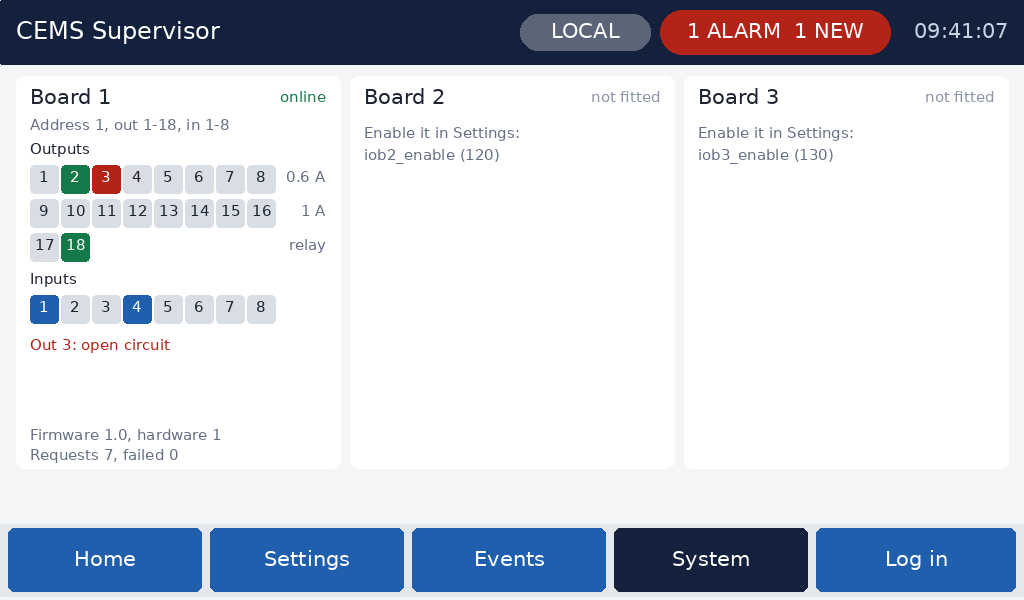
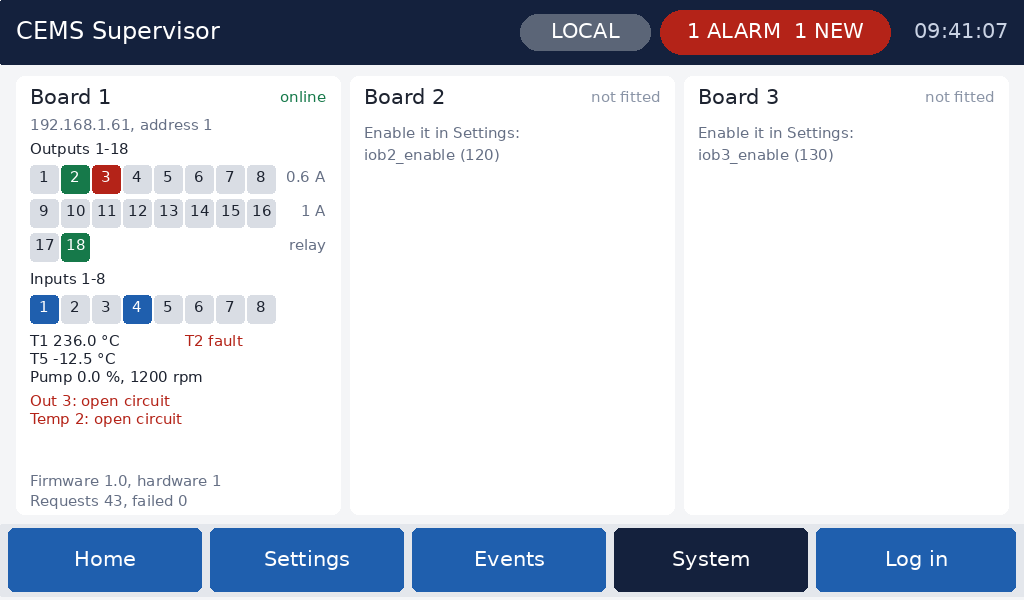
Touchscreen I/O boards screen: board IP on Ethernet, temperatures and pump
Since D27 the boards are reached by IP; the screen showed only the Modbus
address. Each board card now shows its IP and address on Ethernet (or
"RS-485, address N"), the channel ranges on the Outputs/Inputs headings,
the configured temperature channels (calibrated, as on the web page; a
faulty channel says "fault" with the reason in the fault lines) and the
pump duty and speed (register map 2). Integer formatting, no float printf.

Docs: H4 records the display plugged straight onto the core PCB (Gary,
25 Oct), the RiBUS pinout with the 5 V backlight supply, and the ILI2132A
touch controller; screenshots regenerated.

Claude-Session: https://claude.ai/code/session_01AbDXgecyAmn6R8hhL7qjD2

diff --git a/platform/ui/ui.c b/platform/ui/ui.c
@@ -937,12 +937,12 @@ static void draw_system(uint32_t now) {
 
 /* I/O boards (iobus.h): one card per board, outputs and inputs as lit squares, faults in words */
 static void draw_iob(void) {
-    char b[64];
+    char b[64], c[20];
     for (unsigned k = 0; k < IOB_BOARDS; ++k) {
         int16_t x = (int16_t)(16 + k * 334), y = BODY_Y;
         const iob_board_tags_t *t = &iob_tags[k];
         iob_view_t v; memset(&v, 0, sizeof v); (void)iob_board_view(k, &v);
-        box(x, y, 324, 392, C_CARD, 8);
+        box(x, y, 324, 438, C_CARD, 8);
         snprintf(b, sizeof b, "Board %u", k + 1u);
         color(C_INK); text((int16_t)(x + 14), (int16_t)(y + 10), F_TEXT, 0, b);
         uint32_t sc = !t->enable ? C_GREY : v.state == IOB_S_RUN ? C_OK : v.state == IOB_S_CONNECTING ? C_WARN : C_BAD;
@@ -954,11 +954,15 @@ static void draw_iob(void) {
             text((int16_t)(x + 14), (int16_t)(y + 72), F_SMALL, 0, b);
             continue;
         }
-        snprintf(b, sizeof b, "Address %u, out %u-%u, in %u-%u", t->address, t->first_do, t->first_do + IOB_OUTS - 1u,
-                 t->first_di, t->first_di + IOB_INS - 1u);
-        color(C_MUTE); text((int16_t)(x + 14), (int16_t)(y + 42), F_SMALL, 0, b);
+        /* how the board is reached: its IP and Modbus address on Ethernet (D27), the address on RS-485 */
+        if (iob_link == IOB_LINK_ETH) {
+            if (t->ip) { fmt_ip(c, sizeof c, t->ip); snprintf(b, sizeof b, "%s, address %u", c, t->address); }
+            else snprintf(b, sizeof b, "No IP set (iob%u_ip)", k + 1u);
+        } else snprintf(b, sizeof b, "RS-485, address %u", t->address);
+        color(t->ip || iob_link != IOB_LINK_ETH ? C_MUTE : C_BAD); text((int16_t)(x + 14), (int16_t)(y + 42), F_SMALL, 0, b);
         /* outputs: bank A, bank B and the relays, one row each */
-        color(C_INK); text((int16_t)(x + 14), (int16_t)(y + 66), F_SMALL, 0, "Outputs");
+        snprintf(b, sizeof b, "Outputs %u-%u", t->first_do, t->first_do + IOB_OUTS - 1u);
+        color(C_INK); text((int16_t)(x + 14), (int16_t)(y + 66), F_SMALL, 0, b);
         static const char *const bank[] = { "0.6 A", "1 A", "relay" };
         color(C_MUTE);
         for (unsigned r = 0; r < 3; ++r) text((int16_t)(x + 310), (int16_t)(y + 103 + r * 34), F_SMALL, OPT_CENTERY | OPT_RIGHTX, bank[r]);
@@ -969,7 +973,8 @@ static void draw_iob(void) {
             snprintf(b, sizeof b, "%u", i + 1u);
             color(f || on ? 0xFFFFFFu : C_INK); text((int16_t)(bx + 14), (int16_t)(by + 14), F_SMALL, OPT_CENTER, b);
         }
-        color(C_INK); text((int16_t)(x + 14), (int16_t)(y + 196), F_SMALL, 0, "Inputs");
+        snprintf(b, sizeof b, "Inputs %u-%u", t->first_di, t->first_di + IOB_INS - 1u);
+        color(C_INK); text((int16_t)(x + 14), (int16_t)(y + 196), F_SMALL, 0, b);
         for (unsigned i = 0; i < IOB_INS; ++i) {
             int16_t bx = (int16_t)(x + 14 + i * 31), by = (int16_t)(y + 219);
             bool on = (v.inputs >> i) & 1u, f = (v.in_faults >> i) & 1u;
@@ -977,16 +982,39 @@ static void draw_iob(void) {
             snprintf(b, sizeof b, "%u", i + 1u);
             color(f || on ? 0xFFFFFFu : C_INK); text((int16_t)(bx + 14), (int16_t)(by + 14), F_SMALL, OPT_CENTER, b);
         }
+        /* map 2: the configured temperature channels (calibrated, as the web page shows them), two
+         * columns, and the pump */
+        int16_t ly = (int16_t)(y + 258);
+        unsigned nt = 0;
+        for (unsigned i = 0; i < IOB_TEMPS; ++i) {
+            if (t->temp_state[i] == IOB_TS_OFF) continue;
+            bool ok = t->temp_state[i] == IOB_TS_OK && t->temps[i] != IOB_TEMP_INVALID;
+            bool wait = t->temp_state[i] == IOB_TS_WAIT;
+            int32_t d = t->temps[i];                         /* 0.1 degC, without float printf */
+            if (ok) snprintf(b, sizeof b, "T%u %s%ld.%ld \u00b0C", i + 1u, d < 0 ? "-" : "", (long)(labs(d) / 10), (long)(labs(d) % 10));
+            else snprintf(b, sizeof b, "T%u %s", i + 1u, wait ? "starting" : "fault");   /* why: in the fault lines */
+            color(ok ? C_INK : wait ? C_MUTE : C_BAD);
+            text((int16_t)(x + 14 + (nt % 2u) * 155), (int16_t)(ly + (nt / 2u) * 18), F_SMALL, 0, b);
+            ++nt;
+        }
+        ly = (int16_t)(ly + ((nt + 1u) / 2u) * 18);
+        if (v.n_pwm) {
+            snprintf(b, sizeof b, "Pump %u.%u %%, %u rpm", v.pwm_applied / 10u, v.pwm_applied % 10u, (unsigned)v.rpm);
+            color(C_INK); text((int16_t)(x + 14), ly, F_SMALL, 0, b);
+            ly = (int16_t)(ly + 18);
+        }
+        if (nt || v.n_pwm) ly = (int16_t)(ly + 6);
         char lines[4][IOB_LINE];
-        int n = iob_fault_lines(&v, t->ol_mask, t->wb_mask, lines, 4);
+        int room = (y + 398 - ly) / 18;
+        int n = iob_fault_lines(&v, t->ol_mask, t->wb_mask, lines, room < 4 ? (room < 1 ? 1 : room) : 4);
         color(n ? C_BAD : C_OK);
-        if (!n) text((int16_t)(x + 14), (int16_t)(y + 262), F_SMALL, 0, v.state == IOB_S_RUN ? "No faults" : "");
-        for (int i = 0; i < n; ++i) text((int16_t)(x + 14), (int16_t)(y + 262 + i * 18), F_SMALL, 0, lines[i]);
+        if (!n) text((int16_t)(x + 14), ly, F_SMALL, 0, v.state == IOB_S_RUN ? "No faults" : "");
+        for (int i = 0; i < n; ++i) text((int16_t)(x + 14), (int16_t)(ly + i * 18), F_SMALL, 0, lines[i]);
         color(C_MUTE);
         snprintf(b, sizeof b, "Firmware %u.%u, hardware %u", (unsigned)(v.fw_version >> 8), (unsigned)(v.fw_version & 255u), (unsigned)v.hw_rev);
-        if (v.fw_version) text((int16_t)(x + 14), (int16_t)(y + 352), F_SMALL, 0, b);
+        if (v.fw_version) text((int16_t)(x + 14), (int16_t)(y + 398), F_SMALL, 0, b);
         snprintf(b, sizeof b, "Requests %lu, failed %lu", (unsigned long)v.requests, (unsigned long)v.errors);
-        text((int16_t)(x + 14), (int16_t)(y + 372), F_SMALL, 0, b);
+        text((int16_t)(x + 14), (int16_t)(y + 418), F_SMALL, 0, b);
     }
 }
 

diff --git a/tests/test_ui.c b/tests/test_ui.c
@@ -469,10 +469,38 @@ static void t_iob_screen(void) {
     iob_run(100);
     frame();
     CHECK(shows("online"));
-    CHECK(shows("Address 1, out 1-18, in 1-8"));
+    CHECK(shows("RS-485, address 1"));
+    CHECK(shows("Outputs 1-18")); CHECK(shows("Inputs 1-8"));
     CHECK(shows("Out 3: open circuit"));
     CHECK(shows("Firmware 1.0, hardware 1"));
+    CHECK(!shows("T1 "));                             /* no temperature channel configured */
+    /* map 2: configured temperature channels (calibrated) and the pump */
+    iob_tags[0].temp_type[0] = IOB_TT_TC_K;
+    nd.temp[0] = 2345; nd.temp_st[0] = IOB_TS_OK;
+    nd.temp[1] = IOB_TEMP_INVALID; nd.temp_st[1] = IOB_TS_OPEN;
+    iob_tags[0].temp_type[2] = IOB_TT_PT100_3W;
+    nd.temp[4] = -125; nd.temp_st[4] = IOB_TS_OK;
+    iob_tags[0].temp_offset[0] = 150;
+    nd.tach_rpm = 1200;                               /* pump AO not assigned: duty 0 */
+    iob_run(PLAT_IOB_TEMP_MS + 100);
+    frame();
+    CHECK(shows("T1 236.0 "));
+    CHECK(shows("T2 fault")); CHECK(shows("Temp 2: open circuit"));
+    CHECK(!shows("T3 ")); CHECK(!shows("T4 "));       /* connector 2 not configured */
+    CHECK(shows("T5 -12.5 ")); CHECK(!shows("T6 "));  /* an RTD has no B channel */
+    CHECK(shows("Pump 0.0 %, 1200 rpm"));
+    /* on Ethernet: the board's IP and Modbus address */
+    iob_link = IOB_LINK_ETH;
+    iob_tags[0].ip = 0xC0A8013Du;
+    frame();
+    CHECK(shows("192.168.1.61, address 1"));
     dump("iob");
+    iob_tags[0].ip = 0;
+    frame();
+    CHECK(shows("No IP set (iob1_ip)"));
+    iob_tags[0].ip = 0xC0A8013Du;
+    iob_link = IOB_LINK_RS485;
+    iob_tags[0].temp_type[0] = iob_tags[0].temp_type[2] = IOB_TT_NONE;
     nd.powered = false;
     iob_run(1100);
     frame();

diff --git a/docs/HARDWARE.md b/docs/HARDWARE.md
@@ -10,7 +10,7 @@ Keep it current; tick items off at schematic review.
 | H1 | **RTC backup supply on VBAT** (coin cell, e.g. CR2032 with a holder, or a supercap sized for the longest expected outage) and a **32.768 kHz LSE crystal** with load capacitors per ST AN2867 | The clock (D22) must survive power cuts: CEMS records, alarms and the event log are time-stamped. Without VBAT every power-up starts "clock not set" until someone, the PLC or the time server sets it | **Added (Gary, 20 Oct)** |
 | H2 | FRAM for settings and calibration, I2C (or SPI), on its own bus or with pull-ups checked | Parameter store (D6). 128 KB MB85RC1MT (the application's settings are 13.4 KB per copy; firmware default). Prototype: the existing 32 KB MB85RC256V breakout, with `PLAT_FRAM_SIZE=32768u` | **128 KB chosen (Gary, 20 Oct)** |
 | H3 | 16 MB (or larger) JEDEC SPI NOR flash on its own chip select | Event log and data logger (D12, D13) | |
-| H4 | Riverdi RVT70HSBNWC00-B on the 20-pin RiBUS FFC: SPI (SCK, MOSI, MISO, CS) + PD_N + INT; 3.3 V supply sized for the display (235 mA plus backlight peak) | Touchscreen (D16, D24). Single-lane SPI is enough (QSPI not needed, D24) | |
+| H4 | Riverdi RVT70HSBNWC00-B **plugged straight onto the core PCB**: a 20-pin 0.5 mm-pitch RiBUS FFC connector on the core board, cable from the module's ZIF (down-side contact). Pins: 1 VDD 3.3 V, 2 GND, 3 SCK, 4 MISO, 5 MOSI, 6 CS, 7 INT, 8 PD_N, 17-18 BLVDD (backlight supply), 19-20 BLGND. VDD sized for 235 mA; **BLVDD: Riverdi lists 5.0 V typical for this module, so plan a 5 V rail for the backlight peak** (check the current and whether 3.3 V is allowed in the module datasheet before layout). Touch controller on the module: ILITEK ILI2132A (uxTouch) | Touchscreen (D16, D24). Single-lane SPI is enough (QSPI not needed, D24) | **Mounting decided (Gary, 25 Oct)**: on the core PCB, no separate HMI board |
 | H5 | Ethernet: RMII PHY (LAN8742A as on the DK), magnetics, RJ45 with LEDs | Modbus TCP, HTTPS, email, SNTP | |
 | H6 | Digital outputs for the alarm relays (up to 4, any DO channel) with a defined de-energised state at reset | Alarm actions (D20); fail-safe relays rely on outputs being off during reset and faults | |
 | H7 | Outputs off at reset by hardware (pull-downs on driver inputs) | `bsp_io_safe_state()` covers the firmware side; the hardware must not glitch outputs on during power-up or a watchdog reset | |

diff --git a/docs/CUBEMX_SETUP.md b/docs/CUBEMX_SETUP.md
@@ -141,8 +141,8 @@ SPI kernel clock (11 MHz or less at start-up, 30 MHz or less after):
 Add `platform/ui/`, `platform/os/plat_ui_task.c` and `port/stm32h5/eve_bus_stm32h5.c`.
 Bring-up order (spec): the chip ID (REG_ID = 0x7C) answers, then the first frame
 shows. If the touch doesn't respond, the module's touch controller may need
-`touch_config` in `eve_panel_rvt70h` (platform/ui/eve.c) **(check with Riverdi which
-controller the uxTouch variant uses)**. If the picture is shifted or flickers, the
+`touch_config` in `eve_panel_rvt70h` (platform/ui/eve.c): Riverdi lists the ILITEK ILI2132A
+for the uxTouch variant (check its setting in Riverdi's library for this module). If the picture is shifted or flickers, the
 timing values came from Riverdi's library for this module and are worth checking
 against its datasheet.
 
